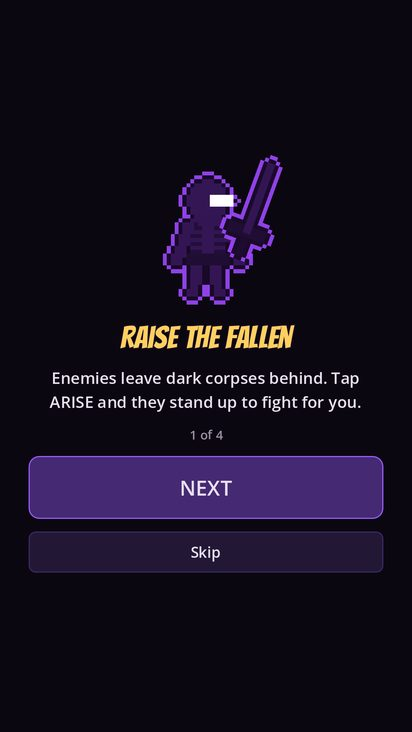
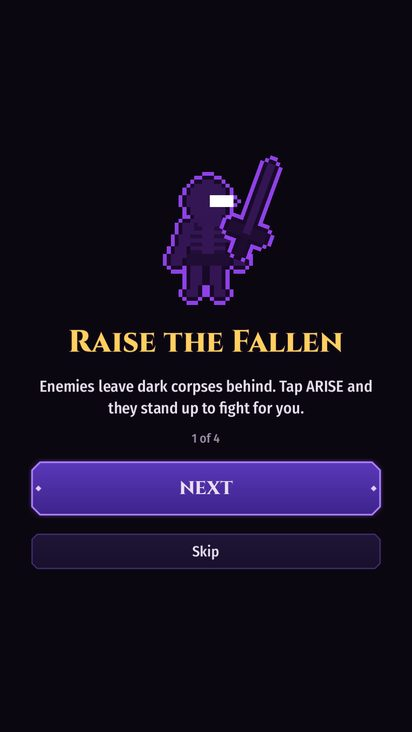
ARISE: Dungeonborn page: screenshots of the new interface

diff --git a/games/arise-dungeonborn/index.html b/games/arise-dungeonborn/index.html
@@ -71,9 +71,10 @@
       <h2>Screenshots</h2>
       <div class="shots" role="group" aria-label="Screenshots from ARISE: Dungeonborn">
         <img src="/assets/img/arise-dungeonborn/raise-the-fallen.jpg" alt="A how-to-play screen: a dark violet skeleton shadow holding a sword above the heading Raise the Fallen." width="412" height="732" loading="lazy">
-        <img src="/assets/img/arise-dungeonborn/in-the-dungeon.jpg" alt="The hooded summoner fights club-swinging zombies on a stone crypt floor while a gold critical hit number pops up, with the ARISE button at the bottom right." width="412" height="732" loading="lazy">
-        <img src="/assets/img/arise-dungeonborn/sanctum.jpg" alt="The home screen, with the game title, the summoner beside a shadow, a floor picker and the daily offering." width="412" height="732" loading="lazy">
-        <img src="/assets/img/arise-dungeonborn/upgrades.jpg" alt="The paused upgrades menu, showing the summoner and shadow figures beside each upgrade and what the next level changes." width="412" height="732" loading="lazy">
+        <img src="/assets/img/arise-dungeonborn/in-the-dungeon.jpg" alt="The hooded summoner and a violet shadow fight on a dark stone crypt floor while damage numbers pop up, with the ARISE button at the bottom right." width="412" height="732" loading="lazy">
+        <img src="/assets/img/arise-dungeonborn/sanctum.jpg" alt="The home screen: the ARISE Dungeonborn logo above a glowing dungeon gate, with a hooded summoner and two shadows, a floor picker and the Enter the Dungeon button." width="412" height="732" loading="lazy">
+        <img src="/assets/img/arise-dungeonborn/upgrades.jpg" alt="The Summoner screen, showing a figure and an icon beside each upgrade and what the next level changes." width="412" height="732" loading="lazy">
+        <img src="/assets/img/arise-dungeonborn/floor-cleared.jpg" alt="The Floor Cleared screen in a gold-trimmed frame, showing wounded shadows with health bars, a green Heal All button and a Descend button." width="412" height="732" loading="lazy">
         <img src="/assets/img/arise-dungeonborn/shop.jpg" alt="The shop, listing bundles, the Remove Ads option, free gems for watching an ad, and gem packs." width="412" height="732" loading="lazy">
       </div>
     </div>
